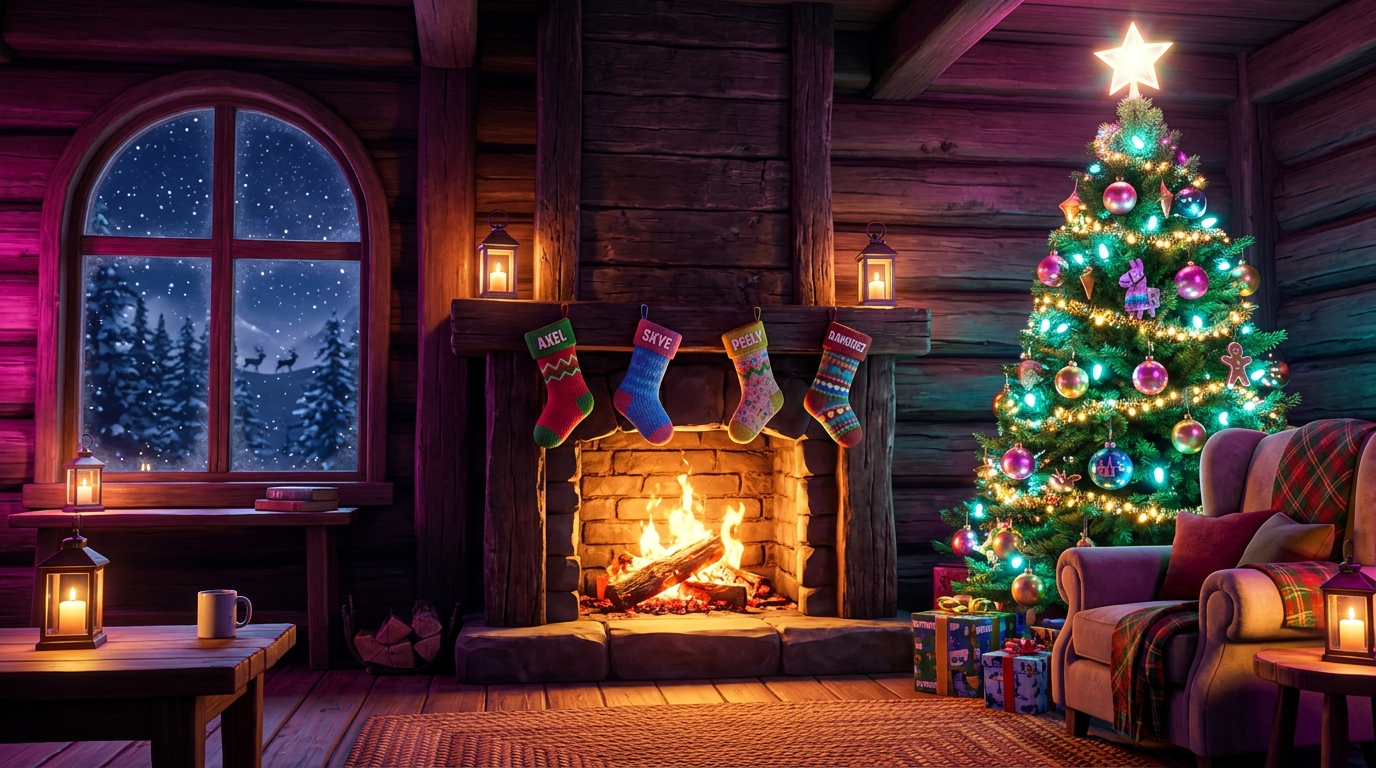
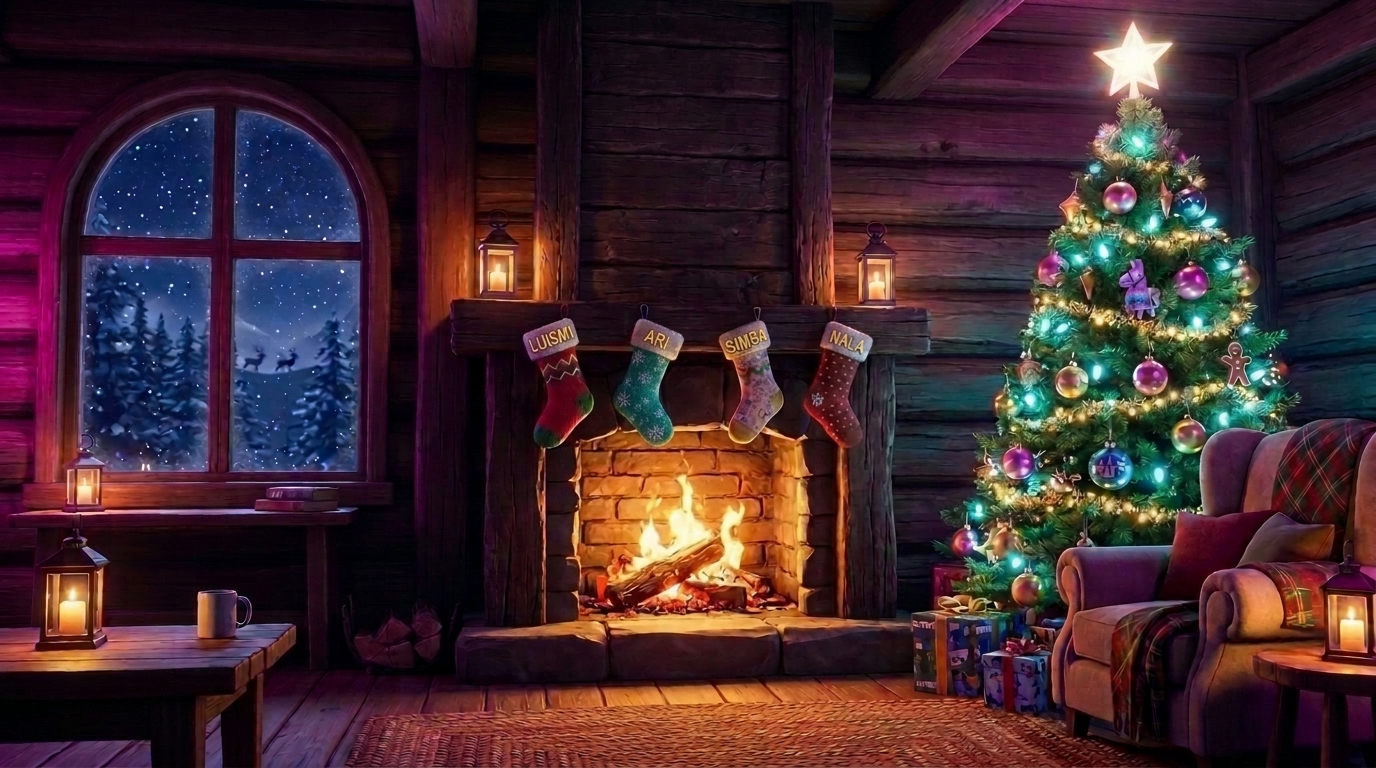
Imagen de fondo cambiada

diff --git a/css/main.css b/css/main.css
@@ -77,7 +77,7 @@ html, body {
 .bg-cabin-scene {
   position: absolute;
   inset: -15px;
-  background: url('../assets/christmas_cabin_bg.jpg') center center / cover no-repeat;
+  background: url('../assets/christmas_cabin_bg.jpg?v=3') center center / cover no-repeat;
   filter: brightness(0.82) saturate(1.15) contrast(1.08);
   transform: scale(1.02);
   animation: cabinAmbientBreathe 24s ease-in-out infinite alternate;
